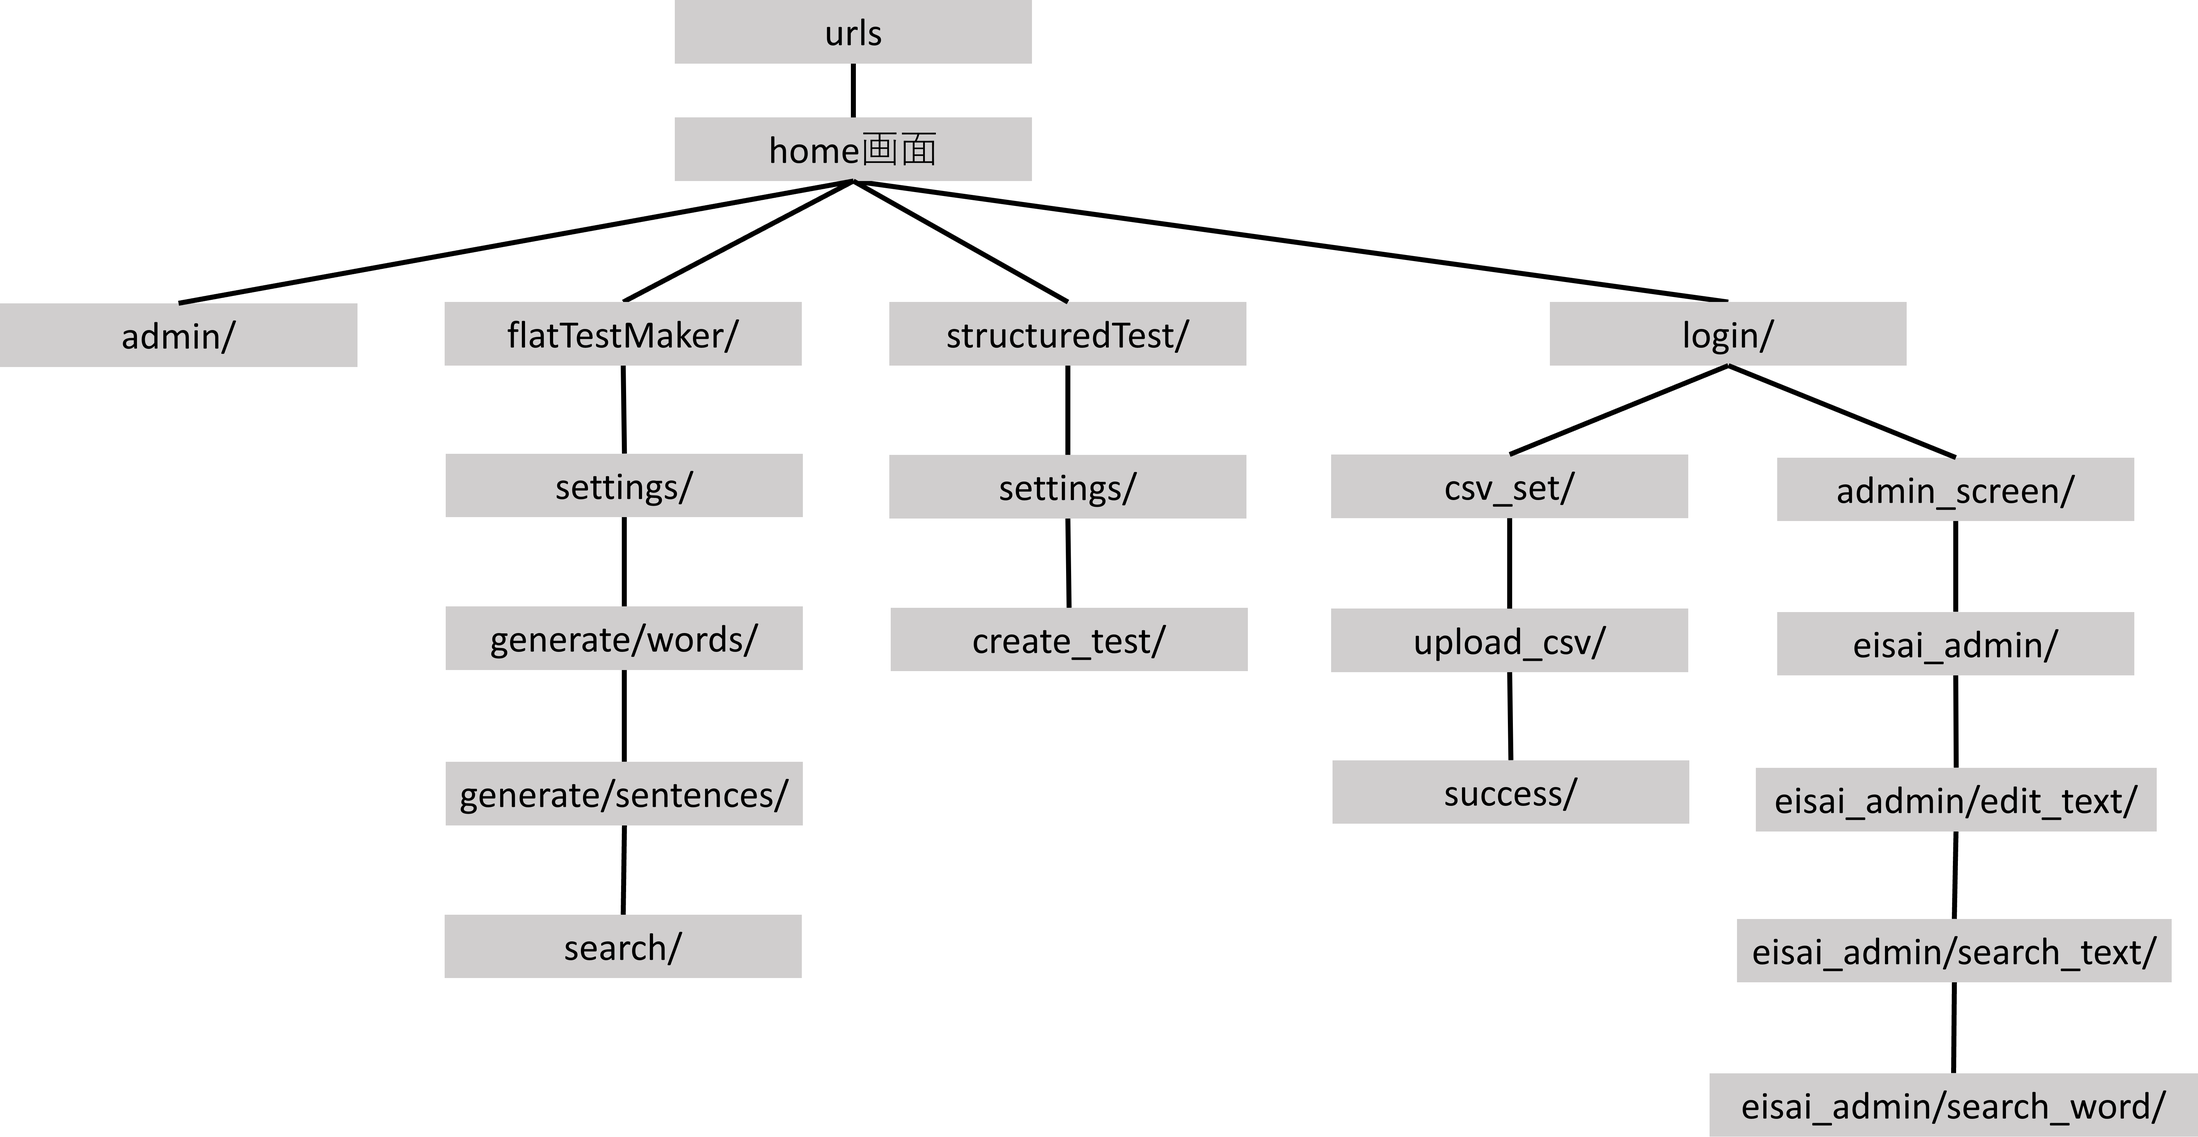
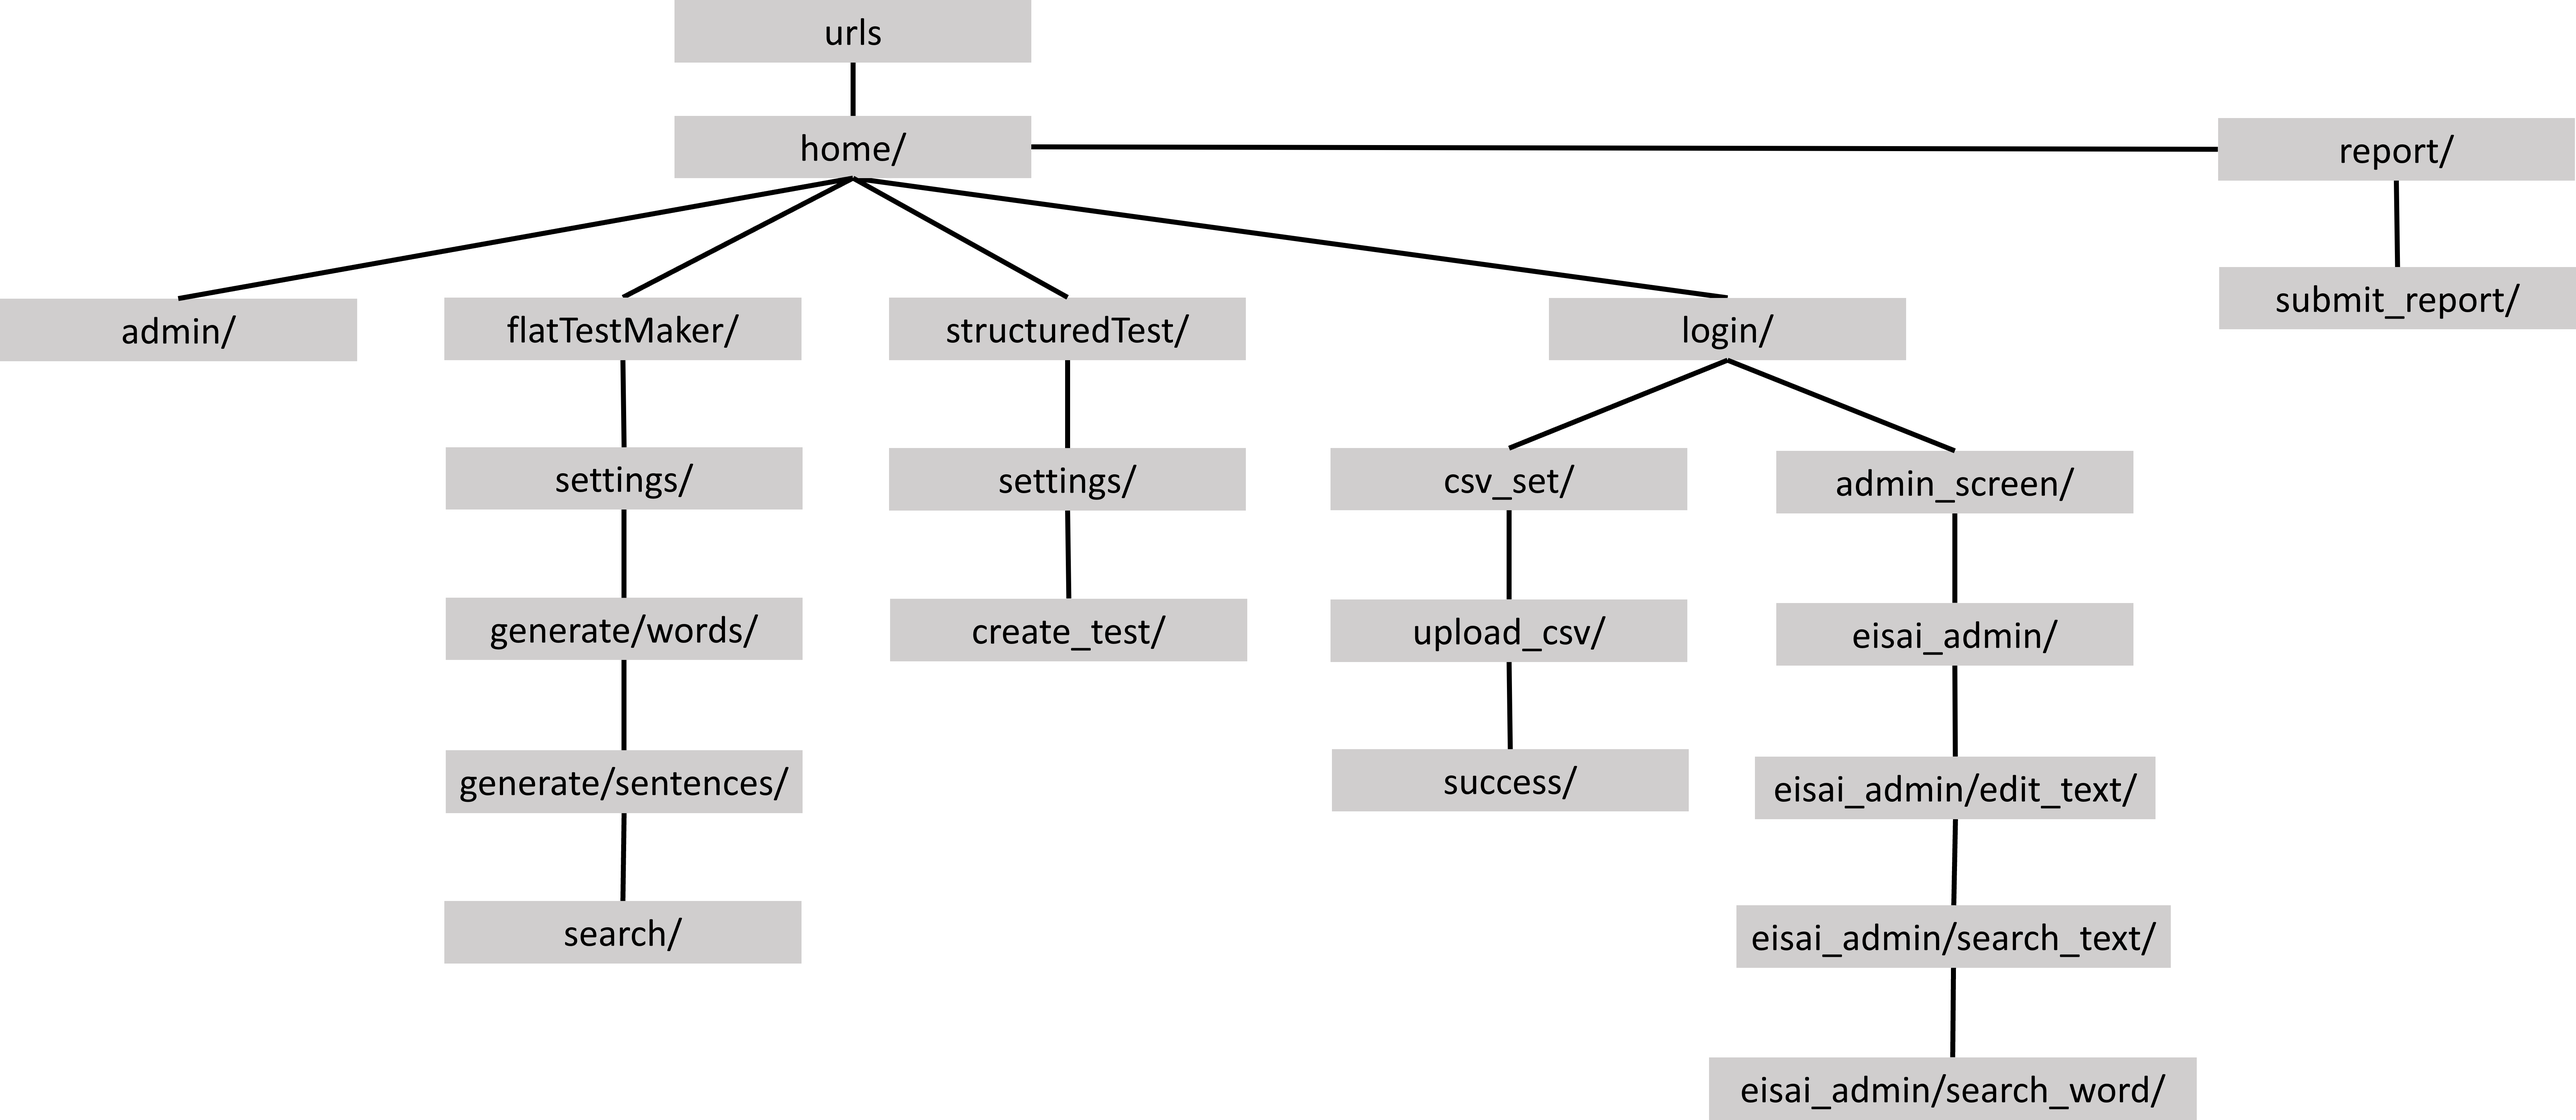
update : README.md URL構成図の修正
現在の状態と同じ形になるように修正

diff --git a/README.md b/README.md
@@ -16,14 +16,15 @@ python3.13
 
 以下機能
 
-|urls|機能|
-|---|---|
-|admin/|管理画面|
-|csv_set/|新規データをデータベースに書き込む。csvファイルのみ対応|
-|structuredTest/|unit事に分類されたテストを作成する。|
-|flatTestMaker/|unit事に分類されていないテストを作成する。検索、穴埋め問題の作成まで対応。|
-|admin_screen/|教材の編集、削除をする機能|
-|login/|csv_set/とadmin_screen/を保護するためのログイン画面|
+| urls            | 機能                                      |
+|-----------------|-----------------------------------------|
+| admin/          | 管理画面                                    |
+| csv_set/        | 新規データをデータベースに書き込む。csvファイルのみ対応           |
+| structuredTest/ | unit事に分類されたテストを作成する。                    |
+| flatTestMaker/  | unit事に分類されていないテストを作成する。検索、穴埋め問題の作成まで対応。 |
+| admin_screen/   | 教材の編集、削除をする機能                           |
+| login/          | csv_set/とadmin_screen/を保護するためのログイン画面    |
+| home/           | ホーム画面                                   |
 
 ## ネットワーク構成図
 
